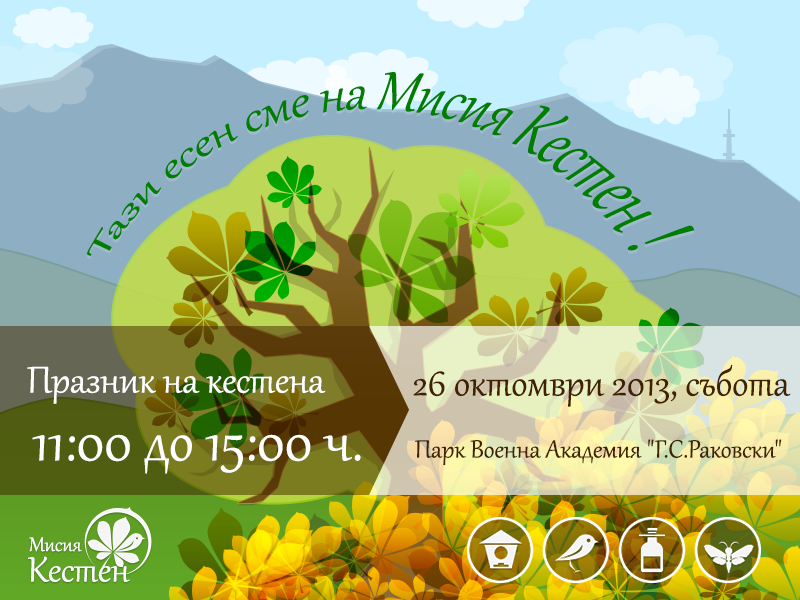
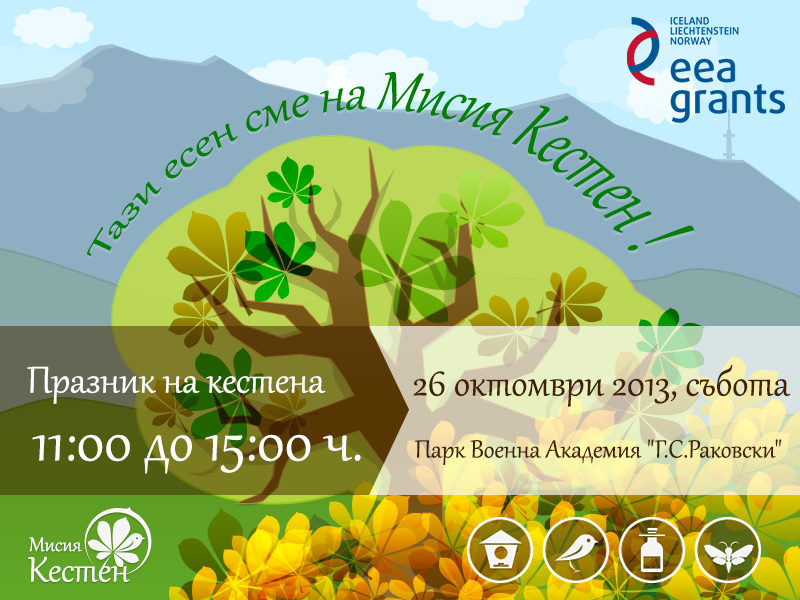
update the latest news

Changed region(s): [[0.7812, 0.03, 1.0, 0.21]]

diff --git a/Site/chronology-elements.html b/Site/chronology-elements.html
@@ -500,7 +500,7 @@
 					<div class="content-left">
 						<div class="post-content">
 							<p>Екипът на <strong>„Мисия Кестен”</strong>, с голямо удоволствие Ви кани на <strong>Празник на кестена</strong>, който ще се проведе на <strong>26 октомври 2013</strong> (събота) в парк Военна Академия „Г.С. Раковски” от <strong>11:30 до 15:00ч.</strong></p><br>
-							<img src="resources/images/chronology/photos/blog19/image_01.png" alt=""></img></br>
+							<img src="resources/images/chronology/photos/blog19/image_01.png" alt=""></img></br></br>
 							<p>На Празника на кестена тържествено ще наградим всички училища, които участват в „Мисия Кестен” и ще обявим резултатите от преброяването на кестеновите дървета в София от учениците от 19 ОУ „Елин Пелин”, 20 ОУ „Тодор Минков”, 38 ОУ „Васил Априлов”, 119 СОУ „Акад. Михаил Арнаудов” и 129 ОУ „Антим I”. Подготвили сме много забавления, игри и изненади за всички малки и големи приятели на кестена! Очакваме Ви!</p><br>
 							<p><strong>Програма Празник на кестена</strong></p></br>
 							<p><strong>11:30 – 12:00</strong> – Официално откриване на Празник на кестена. Как и защо Мисия Кестен.</p></br>
@@ -512,8 +512,7 @@
 							<p><strong>14:00 – 14:15</strong> – Суинг и рокендрол танци.</p></br>
 							<p><strong>15:00 </strong> – Край.</p></br>
 
-							<p>Празникът на кестена се осъществява с любезното съдействие на <strong>Военна Академия „Г.С.Раковски”</strong> 
-								и с подкрепата на <strong>Списание 8</strong> и <a href="https://www.facebook.com/groups/75893475782/" target="_blank">Фондация „За Оборище”.</a></p><br>
+							<p>Празникът на кестена се осъществява с любезното съдействие на <strong> Военна Академия „Г.С.Раковски”</strong>, с подкрепата на <strong><a href="http://www.spisanie8.bg/" target="_blank">Списание 8</a></strong>, <strong><a href="https://www.facebook.com/groups/75893475782/" target="_blank">Фондация „За Оборище”</a></strong> и с финансовата помощ на <strong>Програмата за подкрепа на НПО в България по Финансовия механизъм на <a href="http://eeagrants.org/" target="_blank">Европейското икономическо пространство.</a> </strong></p></br>
 							<img src="resources/images/chronology/photos/blog19/image_02.png" alt=""></img>
 						</div>
 
